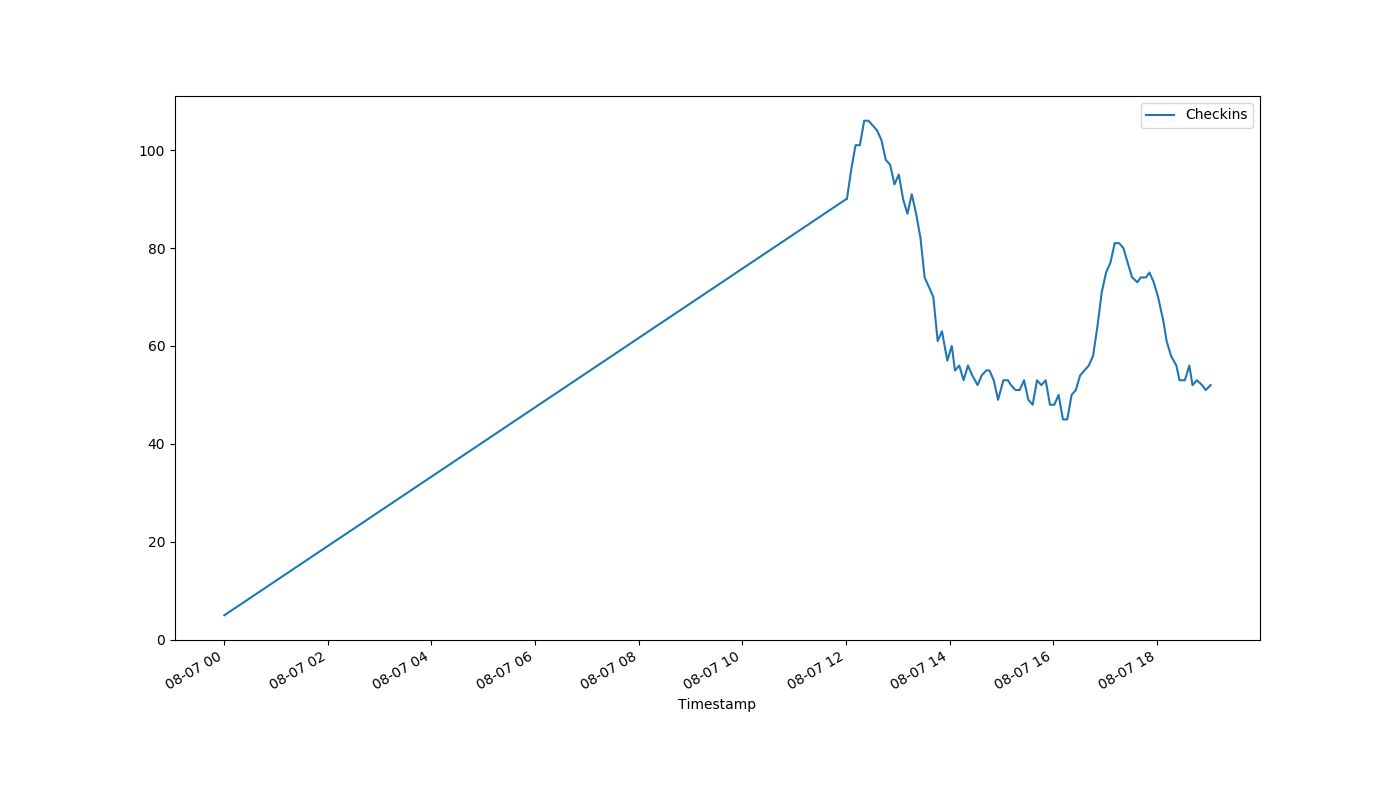
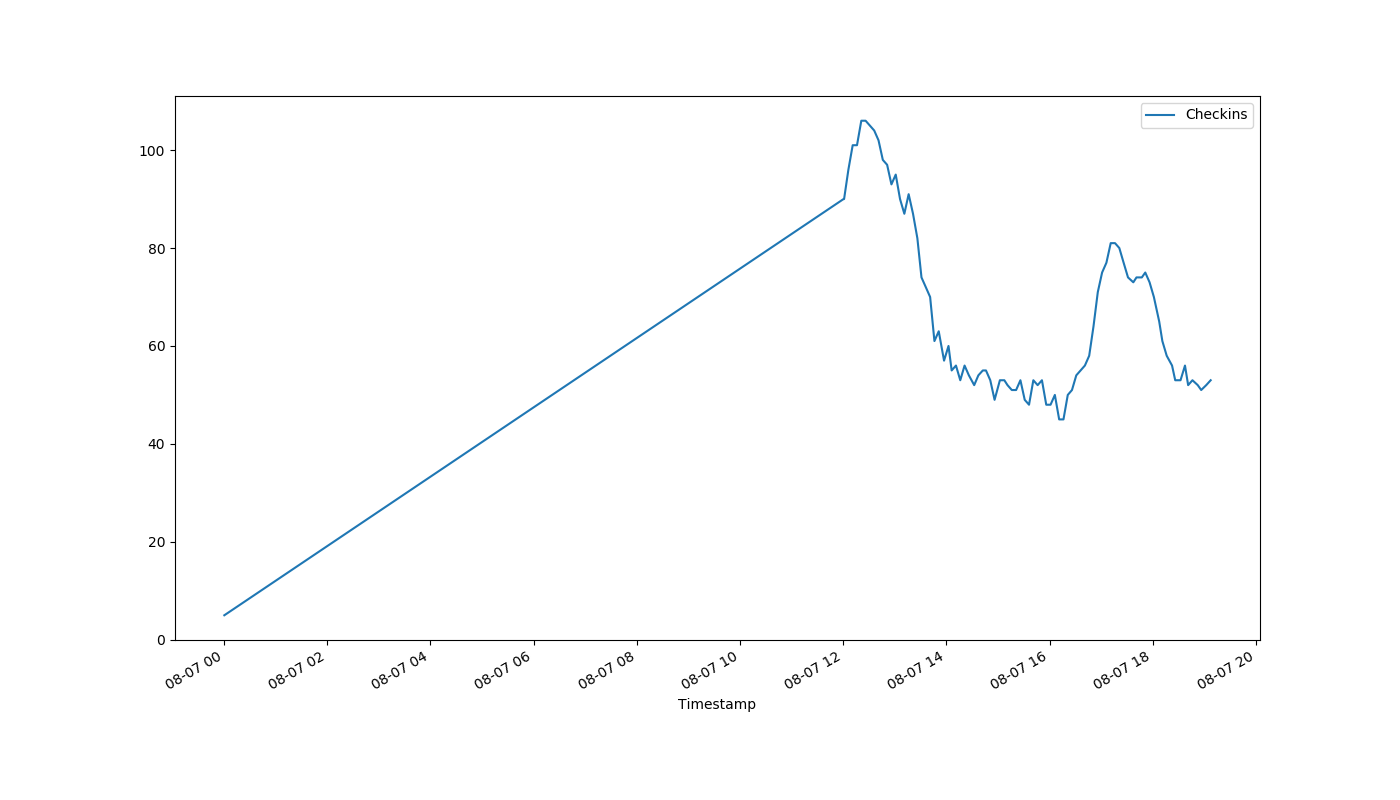
auto-Aug-07-19:09:04

diff --git a/index.html b/index.html
@@ -1,1 +1,1 @@
-<!DOCTYPE html><html><head><meta http-equiv="refresh" content="30"><link rel='stylesheet' href='holmcurrent.css'></head><body><p id='count'>52</p><div id='graph-wrap'><img id='graph' src='holmgraph-Aug-07.png'></div><p id='updated'>Last updated 19:03:06 / 19:02:10</p></body></html>
+<!DOCTYPE html><html><head><meta http-equiv="refresh" content="30"><link rel='stylesheet' href='holmcurrent.css'></head><body><p id='count'>53</p><div id='graph-wrap'><img id='graph' src='holmgraph-Aug-07.png'></div><p id='updated'>Last updated 19:08:06 / 19:07:21</p></body></html>
